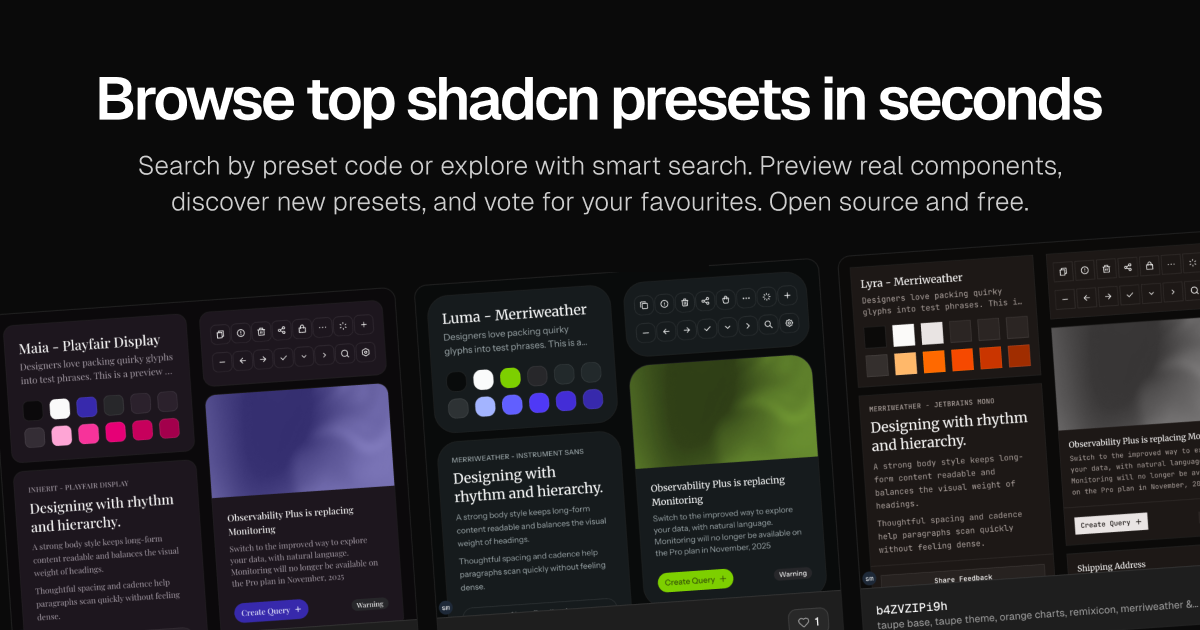
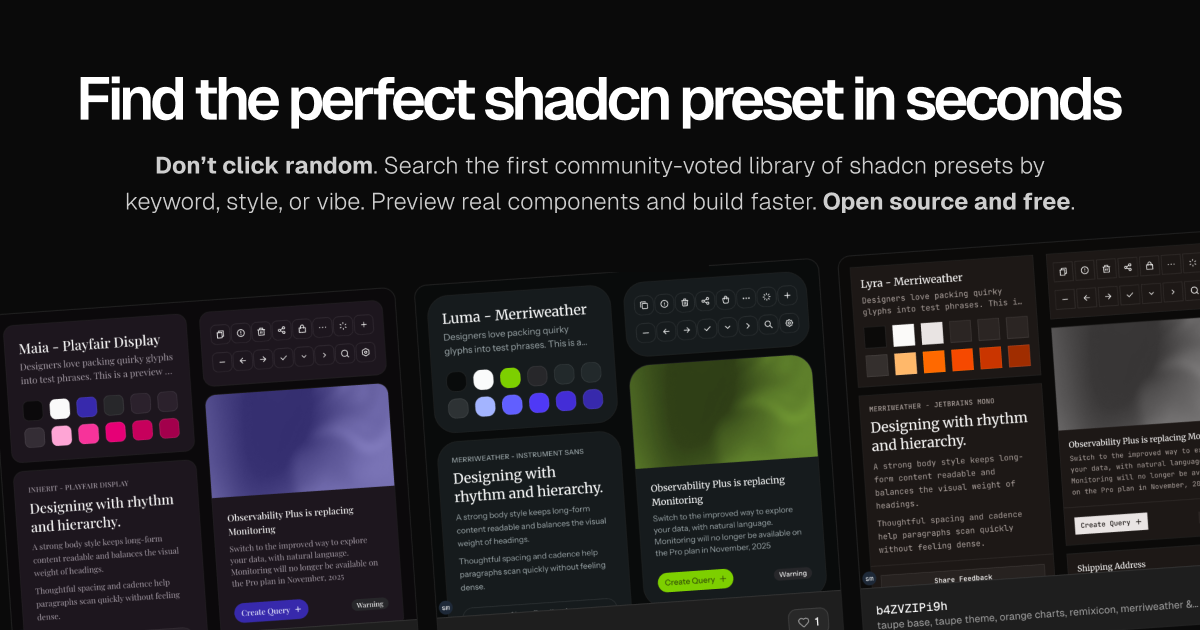
Use copy suggested by Alex Napier Holland

Changed region(s): [[0.0617, 0.1206, 0.9558, 0.2111], [0.0925, 0.2413, 0.8942, 0.3317]]

diff --git a/apps/shadcnpreset/lib/config.ts b/apps/shadcnpreset/lib/config.ts
@@ -9,9 +9,9 @@ export const siteConfig = {
   name: "shadcnpreset",
   url: siteUrl,
   ogImage: `${siteUrl}/og-card.png`,
-  title: "Browse top shadcn presets in seconds",
+  title: "Find the perfect shadcn preset in seconds",
   description:
-    "Search by preset code or explore with smart search. Preview real components, discover new presets, and vote for your favourites. Open source and free.",
+    "Don’t click random. Search the first community-voted library of shadcn presets by keyword, style, or vibe. Preview real components and build faster. Open source and free.",
   links: {
     twitter: "https://twitter.com/morganfeeney",
     github: "https://github.com/morganfeeney/shadcnpreset",
